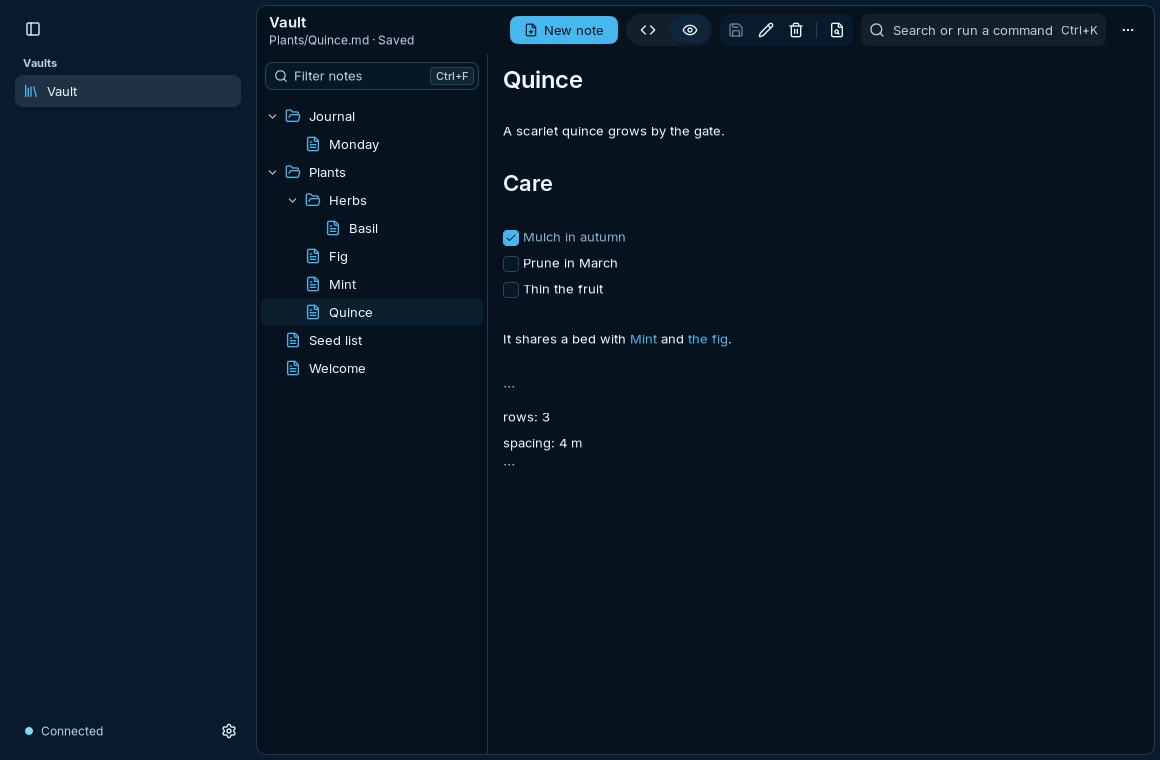
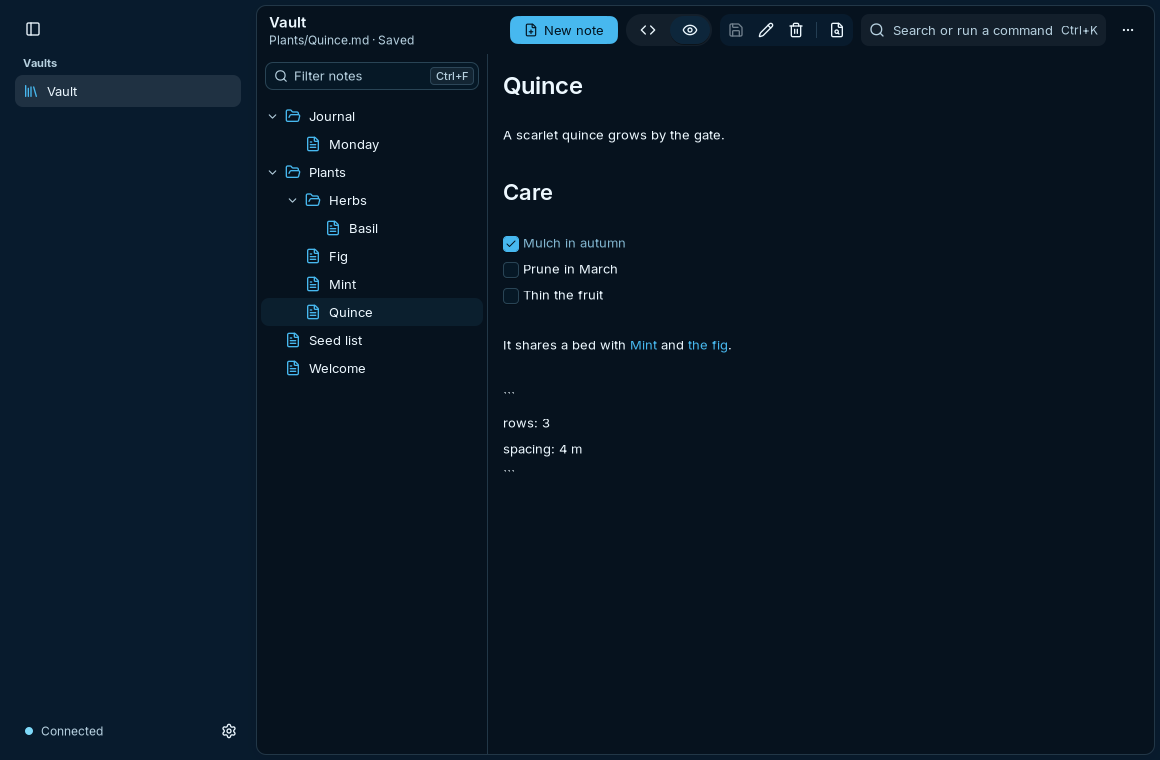
feat(nsgo): take the kit's window, headings, empty pane actions and tree width
The NSGo client takes workspaceui v0.5.0 (frostyard/frostui#79):

- The kit's KeepWindow keeps the window, in place of the client's own
  copy of the same code, under the same key.
- Headings take the kit's scale, and the style test lists no exception.
- The pane with no vault is the kit's empty pane with its actions.
- The notes' tree keeps its width, and a drag of its edge changes it.

diff --git a/cmd/frostnotes-nsgo/window.go b/cmd/frostnotes-nsgo/window.go
@@ -6,29 +6,23 @@ import (
 
 	"github.com/frostyard/frostui/workspaceui"
 	"github.com/nsgo-dev/nsgo/core"
-	"github.com/nsgo-dev/nsgo/desktop"
 )
 
 // The window is kept on the device (the kit's standard for an app, rule
-// 8): its size, its place where the platform says it, and the width of
-// the navigation. A start shows the window as it was left. The choice is
-// the device's, as the appearance is, and lives in the client's storage.
+// 8): its size and its place, which the kit keeps (workspaceui.KeepWindow),
+// the width of the navigation, and the width of the notes' tree. A start
+// shows the window as it was left. The choice is the device's, as the
+// appearance is, and lives in the client's storage.
 
 const (
-	windowKey = "window"
-	panesKey  = "pane-widths"
+	panesKey = "pane-widths"
+	treeKey  = "tree-width"
+	// The tree's first width.
+	treeFirst core.Points = 230
 	// The least size of a kept window: under it the window opens at its
 	// own first size.
 	minWidth, minHeight core.Points = 480, 360
 )
-
-// keptWindow is the window as the device keeps it.
-type keptWindow struct {
-	Width, Height core.Points
-	X, Y          core.Points
-	// Placed says X and Y are a place the platform reported.
-	Placed bool
-}
 
 func load[T any](cx *core.Scope, key string) (T, bool) {
 	var v T
@@ -50,37 +44,6 @@ func (w *workspace) save(key string, v any) {
 	}
 }
 
-// keepWindow shows the window as the device kept it, and keeps it as it
-// changes. A browser's window is the browser's, and is not kept.
-func (w *workspace) keepWindow(cx *core.Scope) {
-	if !desktop.IsAvailable(cx) {
-		return
-	}
-	if k, ok := load[keptWindow](cx, windowKey); ok && k.Width >= minWidth && k.Height >= minHeight {
-		desktop.SetWindowFrame(cx, core.WindowFrame{Width: k.Width, Height: k.Height, X: k.X, Y: k.Y, Move: k.Placed})
-	}
-	var pending func() bool
-	first := true
-	cx.Effect(func() {
-		size, frame, large := cx.Env().Window(), desktop.Frame(cx), desktop.Maximized(cx)
-		if first {
-			// The size the window opens at is not a change of it.
-			first = false
-			return
-		}
-		// A maximized window keeps the size it had before.
-		if large || size.Width < minWidth || size.Height < minHeight {
-			return
-		}
-		k := keptWindow{Width: size.Width, Height: size.Height, X: frame.X, Y: frame.Y, Placed: frame.Move}
-		if pending != nil {
-			pending()
-		}
-		// A drag of the window's edge reports many sizes: keep the last.
-		pending = cx.AfterFunc(300*time.Millisecond, func() { w.save(windowKey, k) })
-	})
-}
-
 // paneWidths are the kept widths of the shell's panes, and savePanes keeps
 // them as a drag of a divider changes them.
 func (w *workspace) paneWidths() workspaceui.PaneWidths {
@@ -89,3 +52,21 @@ func (w *workspace) paneWidths() workspaceui.PaneWidths {
 }
 
 func (w *workspace) savePanes(widths workspaceui.PaneWidths) { w.save(panesKey, widths) }
+
+// treeWidth is the kept width of the notes' tree, its first width where
+// the device keeps none.
+func (w *workspace) treeWidth() core.Points {
+	if width, ok := load[core.Points](w.cx, treeKey); ok && width > 0 {
+		return width
+	}
+	return treeFirst
+}
+
+// keepTree keeps the tree's width once a drag of its edge has rested: a
+// drag reports many widths.
+func (w *workspace) keepTree(width core.Points) {
+	if w.treePending != nil {
+		w.treePending()
+	}
+	w.treePending = w.cx.AfterFunc(200*time.Millisecond, func() { w.save(treeKey, width) })
+}

diff --git a/cmd/frostnotes-nsgo/window_test.go b/cmd/frostnotes-nsgo/window_test.go
@@ -13,6 +13,12 @@ import (
 	"github.com/nsgo-dev/nsgo/nsgotest"
 )
 
+// windowKey is where the kit keeps the window (workspaceui.KeepWindow),
+// and keptWindow what it keeps there.
+const windowKey = "window"
+
+type keptWindow struct{ Width, Height core.Points }
+
 // desktopWindow is a desktop's environment, where the window is the app's
 // to keep.
 var desktopWindow = nsgotest.Environment(core.Environment{OS: "linux", Idiom: core.IdiomDesktop, PixelRatio: 1})
@@ -101,4 +107,41 @@ func TestFilterNarrowsTheTree(t *testing.T) {
 	app.Focus("label:Markdown source")
 	app.Key("mod+f")
 	app.WaitUntil(5*time.Second, func() bool { return app.Find(filter).Focused })
+}
+
+// TestTreeWidthIsKept checks that the notes' tree opens at the width the
+// device kept, and that a drag of its edge is kept.
+func TestTreeWidthIsKept(t *testing.T) {
+	app, _ := startVault(t, map[string]string{"First.md": "First\n"}, 1150, 760, desktopWindow,
+		nsgotest.Storage(map[string]string{treeKey: `300`}))
+	app.WaitFor("label:First", 10*time.Second)
+	edge := func() core.Points { return app.Find("label:Resize file tree").Bounds().Origin.X }
+	first := edge()
+	app.Drag("label:Resize file tree", core.Point{X: 40})
+	app.Advance(time.Second)
+	var kept core.Points
+	app.WaitUntil(5*time.Second, func() bool {
+		text, _ := app.Storage().GetItem(treeKey)
+		return json.Unmarshal([]byte(text), &kept) == nil && kept > 300
+	})
+	if moved := edge() - first; moved <= 0 {
+		t.Errorf("the tree's edge moved %v after a drag of 40 to the right", moved)
+	}
+}
+
+// TestTreeOpensAtItsFirstWidth checks a first start, and that the kept
+// width is where the tree's edge is.
+func TestTreeOpensAtItsFirstWidth(t *testing.T) {
+	wide, _ := startVault(t, map[string]string{"First.md": "First\n"}, 1150, 760, desktopWindow,
+		nsgotest.Storage(map[string]string{treeKey: `300`}))
+	wide.WaitFor("label:First", 10*time.Second)
+	kept := wide.Find("label:Resize file tree").Bounds().Origin.X
+	app, _ := startVault(t, map[string]string{"First.md": "First\n"}, 1150, 760, desktopWindow)
+	app.WaitFor("label:First", 10*time.Second)
+	if first := app.Find("label:Resize file tree").Bounds().Origin.X; kept-first != 300-treeFirst {
+		t.Errorf("the tree's edge is at %v with 300 kept and at %v with nothing kept: want them %v apart", kept, first, 300-treeFirst)
+	}
+	if _, saved := app.Storage().GetItem(treeKey); saved {
+		t.Error("the tree's width is kept before it changed")
+	}
 }

diff --git a/cmd/frostnotes-nsgo/vaults_native.go b/cmd/frostnotes-nsgo/vaults_native.go
@@ -56,14 +56,9 @@ func (w *workspace) vaultWelcome() core.Node {
 	start := func(action string, variant ui.ButtonVariant) core.Node {
 		return ui.Button{Text: action, Variant: variant, OnPress: func() { w.action.Set(action) }}
 	}
-	return core.Dynamic(func(cx *core.Scope) core.Node {
-		colors := ui.ColorsOf(cx)
-		return core.View{TestID: "welcome", Style: ui.FillRest.Merge(core.Style{AlignItems: core.AlignCenter, JustifyContent: core.JustifyCenter, Gap: 8}), Children: []core.Node{
-			ui.Icon(lucide.Library, 32, colors.Faint),
-			core.Text{Content: "Open a vault", Style: ui.TypeTitle},
-			core.Text{Content: "A vault is a folder of Markdown notes.", Style: ui.TypeCaption, StyleFunc: ui.Colored(colors.Muted)},
-			core.View{Style: core.Style{Margin: core.Edges{Top: 8}}, Children: []core.Node{workspaceui.Row(start(createVault, ui.ButtonPrimary), start(openVault, ui.ButtonSecondary), start(joinVault, ui.ButtonSecondary))}}}}
-	})
+	return core.View{TestID: "welcome", Style: ui.FillRest, Children: []core.Node{workspaceui.EmptyState{
+		Icon: lucide.Library, Title: "Open a vault", Hint: "A vault is a folder of Markdown notes.",
+		Actions: []core.Node{start(createVault, ui.ButtonPrimary), start(openVault, ui.ButtonSecondary), start(joinVault, ui.ButtonSecondary)}}}}
 }
 
 // settingsView is Settings: NSGo's settings view, shown in place of the

diff --git a/cmd/frostnotes-nsgo/main.go b/cmd/frostnotes-nsgo/main.go
@@ -46,6 +46,8 @@ func (e environment) After(d time.Duration, f func()) func() {
 }
 
 type workspace struct {
+	// treePending cancels the tree width waiting to be kept.
+	treePending func() bool
 	removed     map[int64][]string
 	syncInfo    *core.Signal[*api.SyncStatus]
 	syncRequest int
@@ -147,13 +149,13 @@ func root(cx *core.Scope) core.Node {
 	})
 	w.bindNoteActions()
 	w.bindSettingsKey()
-	w.keepWindow(cx)
+	workspaceui.KeepWindow(cx, minWidth, minHeight)
 	w.session.Start()
 	// The explorer outlives the views shown in its place, so a look at
 	// Settings leaves the tree, the editor and its history as they were.
 	explorer := core.NewHolder(cx, func(cx *core.Scope) core.Node {
 		return workspaceui.FileExplorer{
-			TreeWidth: 230, Tree: w.notesTree(cx),
+			TreeWidth: w.treeWidth(), OnTreeWidthChange: w.keepTree, Tree: w.notesTree(cx),
 			// Back at the tree, no row is chosen, so a press of the note
 			// that was open opens it again.
 			Preview: w.editor(), HasPreview: w.preview.Get, BackToTree: func() { w.preview.Set(false); w.chosen.Clear() },

diff --git a/cmd/frostnotes-nsgo/inline.go b/cmd/frostnotes-nsgo/inline.go
@@ -11,6 +11,7 @@ import (
 	"github.com/frostyard/frostnotes/api"
 	"github.com/frostyard/frostnotes/internal/desktop/livepreview"
 	"github.com/frostyard/frostnotes/internal/desktop/notes"
+	"github.com/frostyard/frostui/workspaceui"
 	"github.com/nsgo-dev/nsgo/core"
 	"github.com/nsgo-dev/nsgo/ui"
 )
@@ -244,9 +245,7 @@ func (e *inlineView) field(cx *core.Scope, item func() previewLine) core.Node {
 func (e *inlineView) renderLine(cx *core.Scope, l previewLine) core.Node {
 	style := ui.TypeBody.Merge(core.Style{MinHeight: core.Pt(26)})
 	if l.heading > 0 {
-		style = ui.TypeTitle.Merge(style)
-		style.FontSize = core.Points(26 - min(l.heading, 6)*2)
-		style.FontWeight = core.FontWeightSemibold
+		style = style.Merge(workspaceui.Heading(l.heading))
 	}
 	spans := []core.Span{}
 	// TextCaretAt counts rendered UTF-16 units. Record where each changed

diff --git a/cmd/frostnotes-nsgo/style_test.go b/cmd/frostnotes-nsgo/style_test.go
@@ -34,7 +34,7 @@ func TestNoLiteralLooks(t *testing.T) {
 		re   *regexp.Regexp
 		left map[string]int
 	}{
-		{"text sizes", regexp.MustCompile(`FontSize\s*[:=]|ui\.Text\(.*,\s*[0-9]+,\s*ui\.`), map[string]int{"inline.go": 1}},
+		{"text sizes", regexp.MustCompile(`FontSize\s*[:=]|ui\.Text\(.*,\s*[0-9]+,\s*ui\.`), nil},
 	}
 	dir := filepath.Join(repoRoot(t), "cmd", "frostnotes-nsgo")
 	files, err := filepath.Glob(filepath.Join(dir, "*.go"))

diff --git a/AGENTS.md b/AGENTS.md
@@ -243,7 +243,7 @@ file a step names before writing its frostnotes counterpart.
   egoist/mygo#1662, with line-style strike-through) until those changes are in
   a release (plan 0009).
   The NSGo client's own module (`cmd/frostnotes-nsgo/go.mod`) also requires
-  `github.com/frostyard/frostui/workspaceui` v0.4.0, the kit it shares with
+  `github.com/frostyard/frostui/workspaceui` v0.5.0, the kit it shares with
   FrostMail and PocketGo (a module of its own in frostui, tags
   `workspaceui/vX.Y.Z`), and `github.com/nsgo-dev/nsgo` v0.3.0, which
   frostyard does not own. The client draws the kit's Frostyard themes, in
